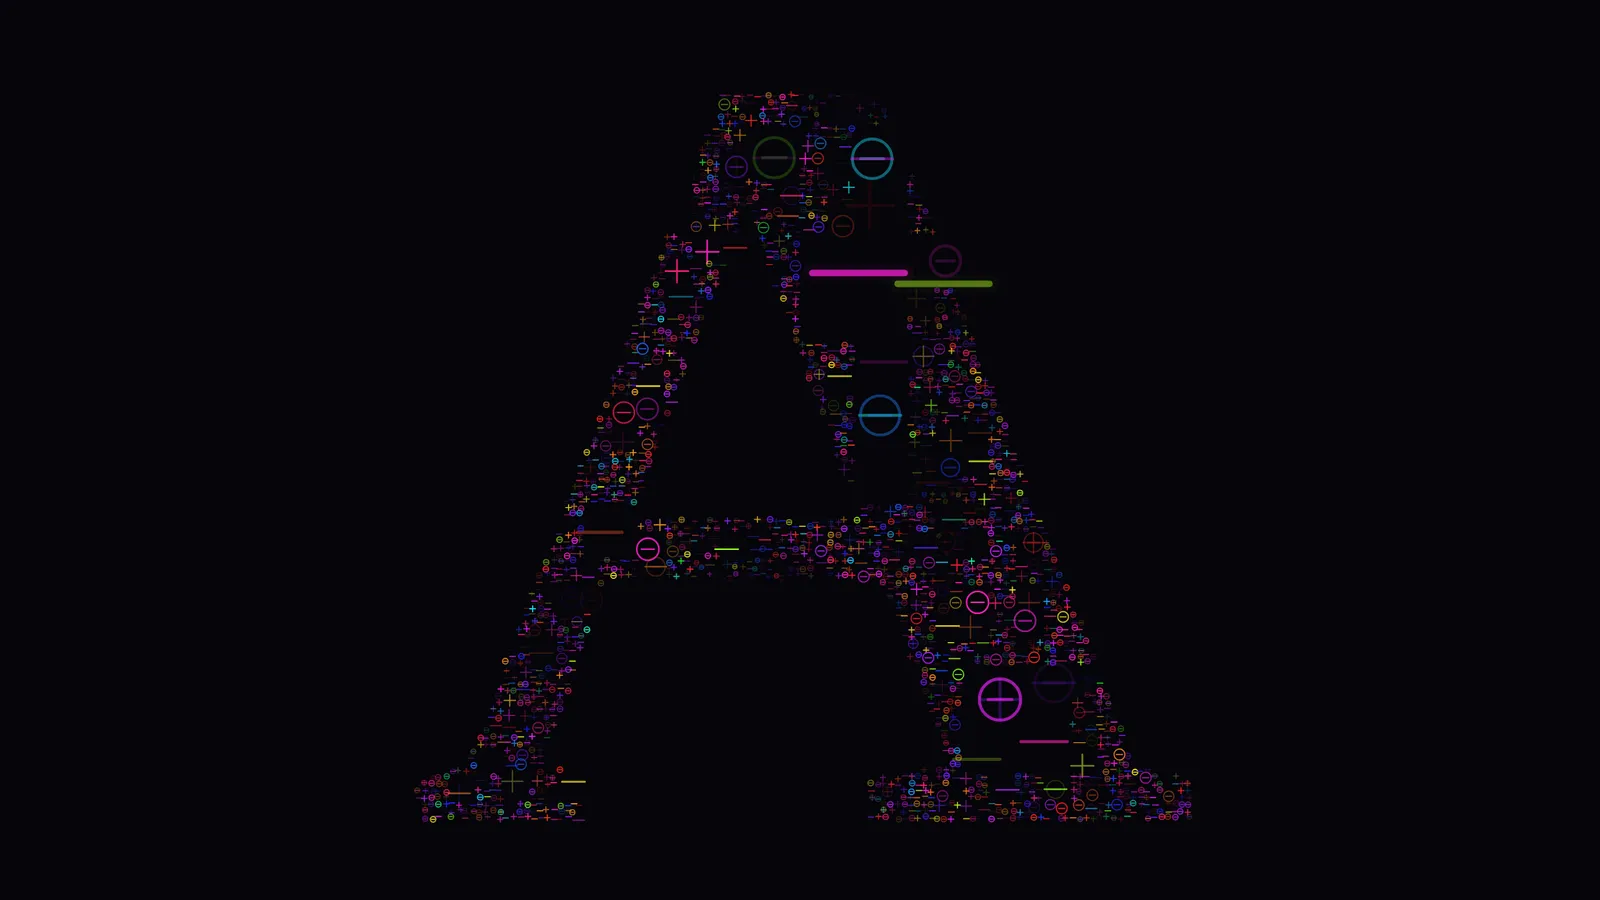
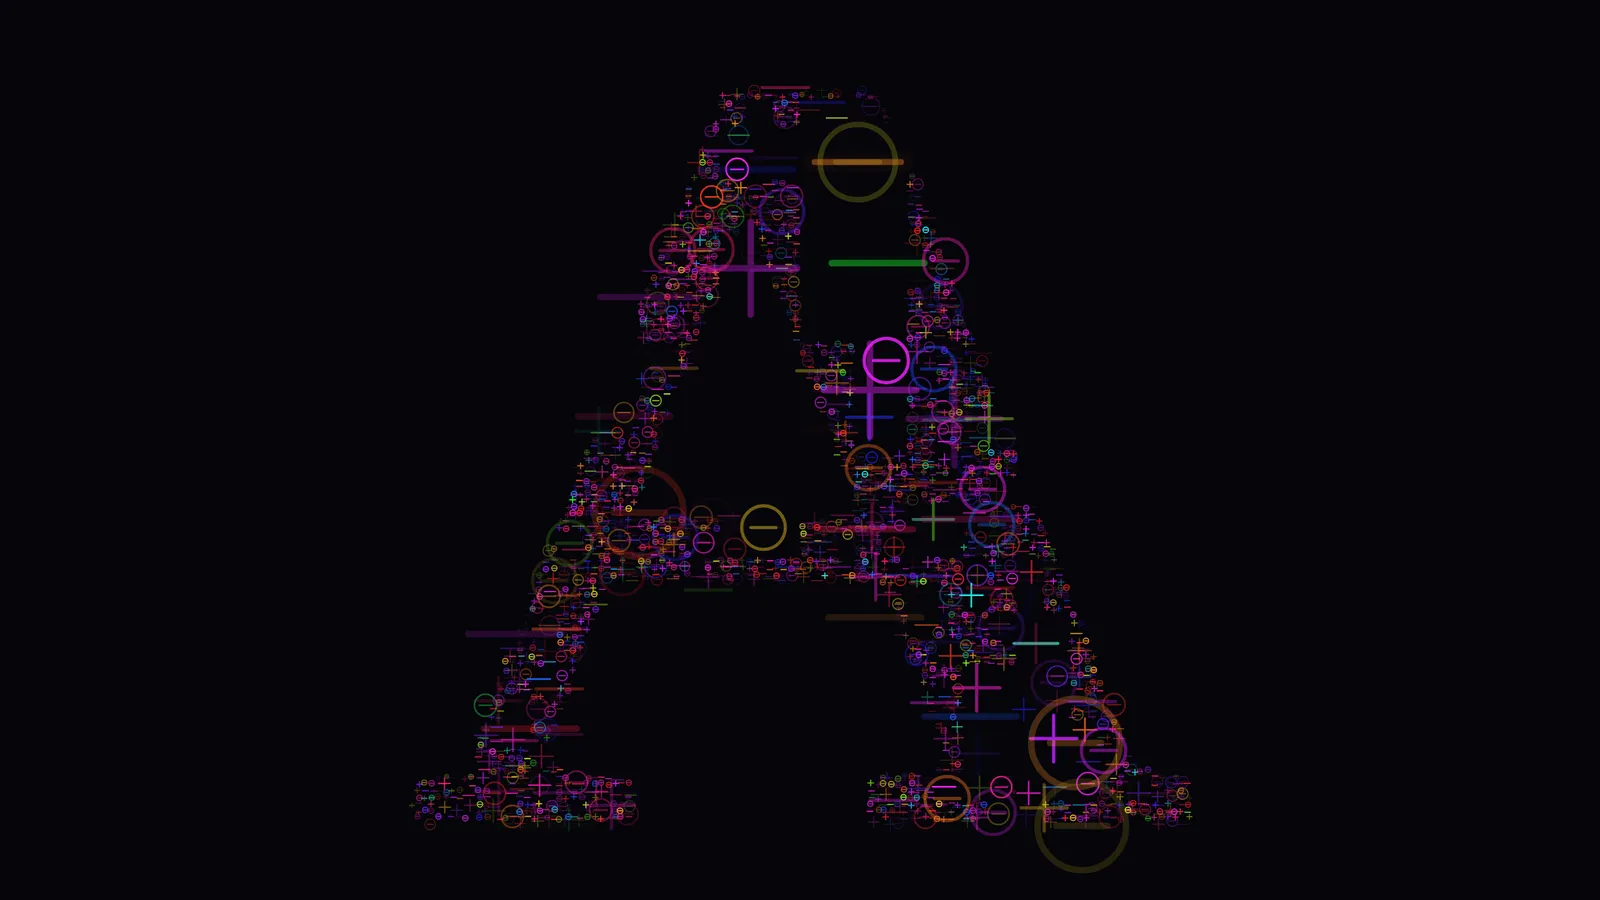
feat(psyxels): the levels above a leaf keep their marks
**`layers`** draws the squares that divided, not only the leaves. A psyx
covers its square exactly and its *mark* does not — ink is a fraction of a
square and the larger the square the more of it is ground — so a big mark
was a sign in a hole. Now the coarse marks come back over the grain that
replaced them, and what shows through the gaps in a big one is the finer
psyxels underneath. That is what was actually asked for; `solid` answered
a different question and keeps its place.

It also settles the offset complaint: with the gaps filled there is no
empty box for a mark to have wandered out of.

Two things it needed. Every node is given a life at creation rather than
only the leaves, or a square born divided draws whatever glyph zero
happened to be — which shifts every seeded stream, so every scene has
moved a little. And the branches are drawn over the grain and without a
bloom: under it they read as haze, and blooming a third as many marks
again, every one of them large, buried the letter in soft discs.

**`coarse` is labelled `biggest` and shows a position, not a percentage.**
It is a share of the frame and saying so was both too long for the value
column and more than anyone dragging it wants to know. It took the piece's
author a while to find that this was the control for how big the biggest
psyx is, which is a labelling failure rather than a naming one.

Changed region(s): [[0.25, 0.0933, 0.75, 0.9956]]

diff --git a/src/experiments/psyxels/settings.ts b/src/experiments/psyxels/settings.ts
@@ -38,6 +38,7 @@ export type Settings = {
   inset: number
   bloom: number
   solid: number
+  layers: number
   wander: number
   weight: number
   vocabulary: number
@@ -105,13 +106,23 @@ export const CONTROLS: Control[] = [
     kind: "slider",
     group: "packing",
     key: "coarse",
-    label: "coarse",
+    label: "biggest",
     min: 0.015,
     max: 0.6,
     step: 0.001,
     scale: "log",
-    format: (value) => `${(value * 100).toFixed(1)}% of frame`,
-    hint: "The largest a psyx is allowed to be, as a share of the frame's shorter side — so what the artwork is made of stays the same in a small window and a large one. A big coarse with few levels gives a blocky sign; a big coarse with many levels gives the widest spread of sizes, which is what makes the field look packed rather than gridded.",
+    /**
+     * Shown as a position on its own track rather than as what it is.
+     *
+     * It *is* a share of the frame's shorter side, and saying so — "12.0% of
+     * frame" — was both too long for the value column and more than anyone
+     * dragging it wants to know. It took the piece's author a while to find that
+     * this was the control for how big the biggest psyx is, which is a labelling
+     * failure and not a naming one: right is right, left is left, and the number
+     * is only there to be returned to.
+     */
+    format: (value) => String(Math.round(100 * (Math.log(value / 0.015) / Math.log(0.6 / 0.015)))),
+    hint: "How big the biggest psyx can be, and the size of the grid everything else is subdivided out of. Measured as a share of the frame's shorter side, so what the artwork is made of stays the same in a small window and a large one. Wide with few levels gives a blocky sign; wide with many levels gives the widest spread of sizes, which is what makes the field look packed rather than gridded.",
   },
   {
     kind: "slider",
@@ -201,6 +212,17 @@ export const CONTROLS: Control[] = [
     step: 0.01,
     format: (value) => (value === 0 ? "none" : `${Math.round(value * 100)}%`),
     hint: "How much of a dim, far wider version of itself a large psyx lays down behind its mark. A mark's ink is a fixed share of its own square, so the same drawing reads as tone at seven screen pixels and as a thin sign in a black hole at a hundred — and the hole is what makes a large psyx demand attention out of all proportion to what it is standing in for. This fills it, in the shape of the mark rather than as a patch, and it is weighted by size so the fine grain is left alone.",
+  },
+  {
+    kind: "slider",
+    group: "packing",
+    key: "layers",
+    label: "layers",
+    min: 0,
+    max: 1,
+    step: 0.01,
+    format: (value) => (value === 0 ? "leaves" : `${Math.round(value * 100)}%`),
+    hint: "How strongly the squares that divided still show their own mark. A psyx covers its square exactly but its mark does not, and the larger the square the more of it is ground — so at zero a big mark is a sign in a hole. Wound up, the coarse marks come back over the grain that replaced them and what shows through the gaps in a big one is the finer psyxels underneath. Every level at once is the whole subdivision visible in one picture, which is a different piece and worth seeing.",
   },
   {
     kind: "slider",
@@ -417,6 +439,7 @@ export const DEFAULT_SETTINGS: Settings = {
   inset: 0,
   bloom: 0.2,
   solid: 0,
+  layers: 0.45,
   wander: 0.47,
   weight: 0.06,
   vocabulary: 3,
@@ -456,6 +479,7 @@ export const PRESETS: { label: string; hint: string; settings: Settings }[] = [
       inset: -0.08,
       bloom: 0.55,
       solid: 0,
+      layers: 0.4,
       wander: 0.18,
       weight: 0.15,
       vocabulary: 4,

diff --git a/tests/unit/psyxels/field.test.ts b/tests/unit/psyxels/field.test.ts
@@ -398,7 +398,7 @@ describe("a soft boundary", () => {
     // A square that declines is one psyx where there would have been four, so
     // the whole field thins. At half the control it lost a third of them and the
     // letter went patchy; this bound is what keeps that in view.
-    expect(soft).toBeGreaterThan(hard * 0.55)
+    expect(soft).toBeGreaterThan(hard * 0.45)
     expect(soft).toBeLessThan(hard)
   })
 })
@@ -487,5 +487,65 @@ describe("the longest a psyx can stay", () => {
     // Four turns of a one-second-ish clock, and nothing beyond it. Unbounded,
     // the longest of a few hundred runs to five times the mean and beyond.
     expect(Math.max(...lives) / mean).toBeLessThan(4)
+  })
+})
+
+/**
+ * The squares that divided keep a mark of their own.
+ *
+ * A psyx covers its square exactly and its *mark* does not — ink is a fraction
+ * of a square, and the larger the square the more of it is ground. Drawing the
+ * divided squares as well is what puts finer psyxels in the gaps of a big one
+ * rather than leaving the ground there.
+ */
+describe("the levels above a leaf", () => {
+  it("hands back every square that divided, each with a life of its own", () => {
+    const field = packField(FLOOD, { ...PLAIN, levels: 3, variety: 0.64 }, 0)
+    const branches = field.branches()
+    const leaves = field.psyxels()
+
+    expect(branches.length).toBeGreaterThan(0)
+    // A tree of quarters has about a third as many divided squares as leaves.
+    expect(branches.length).toBeLessThan(leaves.length)
+
+    for (const branch of branches) {
+      // Born with a mark, a phase and a colour, exactly as a leaf is: a square
+      // that divided at birth used to have none, so raising the control lit up
+      // half the tree with whatever glyph zero happened to be.
+      expect(branch.size).toBeGreaterThan(0)
+      expect(branch.phase).toBeGreaterThan(0)
+      expect(branch.rate).toBeGreaterThan(0)
+    }
+  })
+
+  it("has no divided squares at all when nothing divides", () => {
+    expect(packField(FLOOD, { ...PLAIN, levels: 0 }, 0).branches()).toHaveLength(0)
+  })
+
+  it("covers the same picture as its leaves, one level up", () => {
+    // A flooded subject, because a masked one *prunes*: squares with nothing
+    // under them are never packed, so the leaves under a branch that straddles
+    // the edge do not tile it and are not meant to.
+    const field = packField(FLOOD, { ...PLAIN, levels: 2, variety: 0.64 }, 0)
+    for (const branch of field.branches()) {
+      // Only the squares wholly on the picture: the root grid overhangs the
+      // frame, and a child with nothing under it is pruned rather than packed —
+      // so a branch at the edge is genuinely not tiled by its leaves.
+      if (branch.x < 0 || branch.y < 0) continue
+      if (branch.x + branch.size > FLOOD.width || branch.y + branch.size > FLOOD.height) continue
+      const inside = field
+        .psyxels()
+        .filter(
+          (psyx) =>
+            psyx.x >= branch.x &&
+            psyx.y >= branch.y &&
+            psyx.x < branch.x + branch.size &&
+            psyx.y < branch.y + branch.size,
+        )
+      // Every divided square is exactly the psyxels beneath it, whatever depth
+      // they ended up at.
+      const area = inside.reduce((sum, psyx) => sum + psyx.size * psyx.size, 0)
+      expect(area).toBeCloseTo(branch.size * branch.size, 6)
+    }
   })
 })

diff --git a/src/experiments/psyxels/psyxels.ts b/src/experiments/psyxels/psyxels.ts
@@ -217,7 +217,15 @@ export function createPsyxels(canvas: HTMLCanvasElement, initial: Settings, opti
    * where it is was settled when it was packed. See `pulse.ts` for what each
    * factor answers.
    */
-  function paintPsyx(psyx: Psyx, time: number, span: number, coarsePx: number, leaving = 0): number {
+  function paintPsyx(
+    psyx: Psyx,
+    time: number,
+    span: number,
+    coarsePx: number,
+    leaving = 0,
+    fade = 1,
+    withBloom = true,
+  ): number {
     const level = levelOf(psyx.ink, psyx.luck, settings.threshold, settings.fuzz, settings.flatten)
     if (level <= 0) return 0
 
@@ -230,7 +238,7 @@ export function createPsyxels(canvas: HTMLCanvasElement, initial: Settings, opti
     const arrival = leaving > 0 ? 1 - arrivalOf(time, leaving, life) : arrivalOf(time, psyx.born, life)
     if (arrival <= 0) return 0
     const spatial = (psyx.x + psyx.y * 0.62) / span
-    const alpha = level * breathOf(psyx, settings, time, spatial) * arrival
+    const alpha = level * breathOf(psyx, settings, time, spatial) * arrival * fade
     if (alpha < ALPHA_FLOOR) return 0
 
     // The arrival scales the mark as well as fading it: four marks appearing at
@@ -284,8 +292,11 @@ export function createPsyxels(canvas: HTMLCanvasElement, initial: Settings, opti
      * it is weighted by how large this psyx is against the coarsest — the fine
      * grain already reads as tone and is left alone.
      */
-    // A solid tile has already filled the ground, so the bloom stands down.
-    const bloom = settings.bloom * share * share * (1 - settings.solid)
+    // A solid tile has already filled the ground, so the bloom stands down — and
+    // so does a divided square, whose ground is filled by the grain that
+    // replaced it. Blooming those as well buried the letter in soft discs: there
+    // are a third as many branches as leaves and every one of them is large.
+    const bloom = withBloom ? settings.bloom * share * share * (1 - settings.solid) : 0
     if (bloom > 0.02) {
       const level = alpha * bloom * 0.3
       if (level >= ALPHA_FLOOR) {
@@ -390,6 +401,22 @@ export function createPsyxels(canvas: HTMLCanvasElement, initial: Settings, opti
       if (covered > 0) {
         painted++
         area += covered
+      }
+    }
+
+    /**
+     * **Over the grain, not under it.**
+     *
+     * The coarse marks are drawn last so that what shows through the unfilled
+     * parts of one is the finer psyxels that replaced it. Underneath, the grain
+     * would cover the coarse mark instead and the layering would read as haze
+     * rather than as depth — which is the wrong way round: the piece's author
+     * asked for "smaller psyxels shown in the empty spaces left by the unfilled
+     * portions of the big ones".
+     */
+    if (settings.layers > 0) {
+      for (const branch of field.branches()) {
+        painted += paintPsyx(branch, time, span, coarsePx, 0, settings.layers, false) > 0 ? 1 : 0
       }
     }
 

diff --git a/src/experiments/psyxels/field.ts b/src/experiments/psyxels/field.ts
@@ -154,6 +154,16 @@ export type Field = {
   /** Every leaf, including ones currently below the ink threshold. */
   psyxels: () => Psyx[]
   /**
+   * The squares that divided, each still holding a mark of its own.
+   *
+   * What `layers` draws. A leaf covers its square exactly, but its *mark* does
+   * not — ink is a fraction of a square, and the larger the square the more of
+   * it is ground. Drawing the divided squares as well puts the coarse marks back
+   * over the grain that replaced them, so what shows through the unfilled parts
+   * of a big mark is the finer psyxels underneath rather than the ground.
+   */
+  branches: () => Psyx[]
+  /**
    * Psyxels that have just been replaced, still fading.
    *
    * **A psyx that vanishes leaves a hole until whatever replaced it has
@@ -260,11 +270,13 @@ function makeNode(
   }
 
   node.changeRoll = node.rng()
-  if (decideSplit(node, settings)) {
-    grow(context, node)
-  } else {
-    breatheLife(node, time, settings.vocabulary)
-  }
+  // **Every node is given a life, not only the leaves.** A square that divides
+  // still has a mark of its own, and `layers` draws it: the coarse mark stays
+  // and the grain shows through the parts of it that are not ink. A node that
+  // was born divided had no mark at all before this, so raising the control lit
+  // up half the tree with whatever glyph zero happened to be.
+  breatheLife(node, time, settings.vocabulary)
+  if (decideSplit(node, settings)) grow(context, node)
 
   return node
 }
@@ -543,15 +555,17 @@ export function packField(mask: Mask, settings: Settings, time: number): Field {
   }
 
   let leaves: Psyx[] = []
+  let divided: Psyx[] = []
   let depths: number[] = []
   let stale = true
   let changes = 0
   let flicks = 0
   let departed: Ghost[] = []
 
-  function collect(node: Node, into: Psyx[], counts: number[]): void {
+  function collect(node: Node, into: Psyx[], counts: number[], above: Psyx[]): void {
     if (node.split && node.kids) {
-      for (const kid of node.kids) collect(kid, into, counts)
+      above.push(node)
+      for (const kid of node.kids) collect(kid, into, counts, above)
       return
     }
     into.push(node)
@@ -562,7 +576,8 @@ export function packField(mask: Mask, settings: Settings, time: number): Field {
     if (!stale) return
     leaves = []
     depths = []
-    for (const root of roots) collect(root, leaves, depths)
+    divided = []
+    for (const root of roots) collect(root, leaves, depths, divided)
     stale = false
   }
 
@@ -619,6 +634,11 @@ export function packField(mask: Mask, settings: Settings, time: number): Field {
     psyxels() {
       refresh()
       return leaves
+    },
+
+    branches() {
+      refresh()
+      return divided
     },
 
     update(time, settings) {

diff --git a/tests/psyxels.spec.ts b/tests/psyxels.spec.ts
@@ -137,6 +137,7 @@ test("winding the life controls anywhere leaves the packing exactly as it was", 
       wander: 0.6,
       bloom: 1,
       solid: 1,
+      layers: 1,
       edge: 1,
       edgeHue: -180,
       playback: 2,
@@ -283,10 +284,11 @@ test("bloom and overlap fill the ground around a large psyx without repacking", 
     return { lit: (await light(page)).lit, stats: await experiment.api(({ api }) => api.stats()) }
   }
 
-  const bare = await paint({ bloom: 0, solid: 0, inset: 0.2, churn: 0 })
+  const bare = await paint({ bloom: 0, solid: 0, layers: 0, inset: 0.2, churn: 0 })
   const bloomed = await paint({ bloom: 1 })
   const overlapped = await paint({ bloom: 0, inset: -0.4 })
   const solid = await paint({ inset: 0.2, solid: 1 })
+  const layered = await paint({ solid: 0, layers: 1 })
 
   // Read off the canvas rather than from `fill`, which is the marks' *bounding*
   // area and cannot see ink: the bloom does not change a mark's extent, only how
@@ -296,6 +298,9 @@ test("bloom and overlap fill the ground around a large psyx without repacking", 
   // A tile with the sign cut out of it is the complete answer: the square is
   // filled and only the knockout is ground.
   expect(solid.lit).toBeGreaterThan(bare.lit * 2)
+  // And layering puts the coarse marks back over the grain that replaced them,
+  // so what shows through the gaps in a big one is finer psyxels.
+  expect(layered.lit).toBeGreaterThan(bare.lit * 1.15)
 
   // And neither is a packing change: same psyxels, same sizes, in the same places.
   expect(bloomed.stats.psyxels).toBe(bare.stats.psyxels)
@@ -304,6 +309,8 @@ test("bloom and overlap fill the ground around a large psyx without repacking", 
   expect(overlapped.stats.byDepth).toEqual(bare.stats.byDepth)
   expect(solid.stats.psyxels).toBe(bare.stats.psyxels)
   expect(solid.stats.byDepth).toEqual(bare.stats.byDepth)
+  expect(layered.stats.psyxels).toBe(bare.stats.psyxels)
+  expect(layered.stats.byDepth).toEqual(bare.stats.byDepth)
 })
 
 test("churn repacks squares over time, and holds still at zero", async ({ page }) => {

diff --git a/src/experiments/psyxels/about.md b/src/experiments/psyxels/about.md
@@ -146,8 +146,19 @@ patch of picture it stands for. Round marks in square boxes make it worse: the
 corners are never reached, and a mark that has wandered off its centre leaves the
 hole behind it exactly where it was.
 
-Three controls put ink back. **bloom** lays down the same mark again, far wider
-and dim, behind itself — filling the hole in the shape of what is in it rather
+Three controls put ink back, and one of them is the interesting one.
+
+**layers** draws the squares that _divided_, not only the leaves. A psyx covers
+its square exactly and its mark does not, so at zero a big mark is a sign in a
+hole; wound up, the coarse marks come back over the grain that replaced them and
+what shows through the gaps in a big one is the finer psyxels underneath. At the
+top it is the whole subdivision visible in one picture — every level of the tree
+at once, which is a different piece and worth seeing. It also settles the thing
+that made an off-centre mark look wrong: with the gaps filled there is no empty
+box for a mark to have wandered out of.
+
+The other two put ink where the mark itself is. **bloom** lays down the same mark again, far wider and
+dim, behind itself — filling the hole in the shape of what is in it rather
 than as a patch, and weighted by size, so the fine grain is left alone.
 **spacing** goes negative: marks spill past their own squares into their
 neighbours', which is the only thing that dissolves the lattice the subdivision

diff --git a/src/experiments/psyxels/AGENTS.md b/src/experiments/psyxels/AGENTS.md
@@ -198,6 +198,19 @@ flatten` at first, which looks right on a letter — ink is 1 almost everywhere 
   skipping the knockout below three took it to 13.6ms, and 8.6ms at 1 where the
   drawn mark is skipped entirely.
 
+- **`layers` needs every node to have a life, not only the leaves.** A square
+  that divides keeps its own mark, and `breatheLife` is called on creation for
+  every node because of it — a node born divided had no mark at all before, so
+  raising the control lit up half the tree with whatever glyph zero happened to
+  be. It also shifted every seeded stream by a few draws, which is why every
+  scene changed the day it went in.
+- **The divided squares are drawn _over_ the grain and without a bloom.** Over,
+  because what should show through the gaps in a big mark is the finer psyxels
+  that replaced it — underneath, the grain covers the coarse mark and the whole
+  thing reads as haze. Without, because there are a third as many branches as
+  leaves and every one of them is large: blooming them buried the letter in soft
+  discs at the first attempt.
+
 ## Invariants worth preserving
 
 - **A psyx is a pure function of `(seed, depth, column, row)`.** Its frame, its
